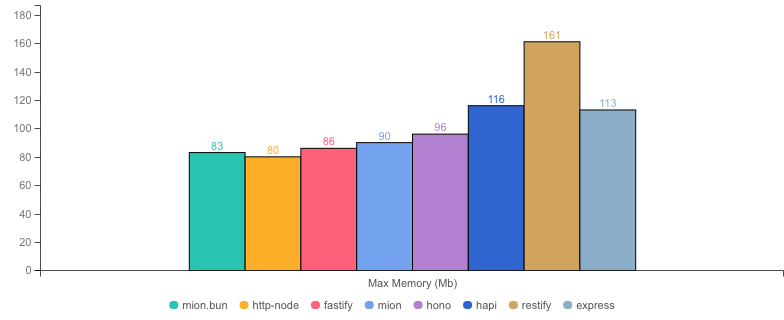
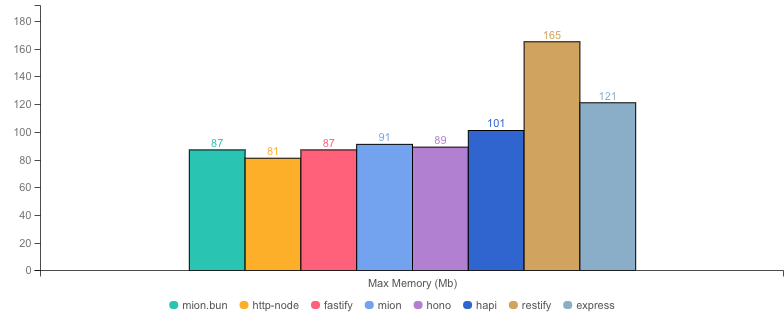
update to latest benchmarks

diff --git a/website/content/4.benchmarks/1.hello-world.md b/website/content/4.benchmarks/1.hello-world.md
@@ -43,8 +43,8 @@ mion creates standard Request, Response & Headers Object for each incoming reque
 
 * __Machine:__ darwin x64 | 8 vCPUs | 16.0GB Mem
 * __Node:__ `v20.11.0`
-* __Run:__ Mon Jan 29 2024 01:56:33 GMT+0000 (Greenwich Mean Time)
-* __Method:__ `autocannon -c 100 -d 40.06 -p 10 localhost:3000` (two rounds; one to warm-up, one to measure)
+* __Run:__ Mon Jan 29 2024 22:27:22 GMT+0000 (Greenwich Mean Time)
+* __Method:__ `autocannon -c 100 -d 40.02 -p 10 localhost:3000` (two rounds; one to warm-up, one to measure)
 
 #### Req (R/s) 
 
@@ -70,15 +70,15 @@ mion creates standard Request, Response & Headers Object for each incoming reque
 
 ## Results Table
 
-|           | Version   | Router | Req (R/s)   | Latency (ms) | Output (Mb/s) | Max Memory (Mb) | Max Cpu (%) | Validation | Description                                                                         |
-| :--       | --:       | --:    | :-:         | --:          | --:           | --:             | --:         | :-:        | :--                                                                                 |
-| mion.bun  | 0.6.2     | ✓      | 61463.2     | 15.79        | 9.55          | 83              | 106         | ✓          | mion using bun, automatic validation and serialization                              |
-| http-node | 16.18.0   | ✗      | 39839.2     | 24.60        | 7.10          | 80              | 125         | ✗          | bare node http server, should be the theoretical upper limit in node.js performance |
-| fastify   | 4.10.2    | ✓      | 39560.0     | 24.78        | 7.09          | 86              | 121         | -          | Validation using schemas and ajv. schemas are generated manually                    |
-| **mion**  | **0.6.2** | **✓**  | **33033.0** | **29.77**    | **6.62**      | **90**          | **128**     | **✓**      | **Automatic validation and serialization out of the box**                           |
-| hono      | 3.12.6    | ✓      | 28300.4     | 34.83        | 5.05          | 96              | 123         | ✗          | hono node server, manual validation or third party tools                            |
-| hapi      | 21.3.2    | ✓      | 26826.0     | 36.77        | 4.78          | 116             | 129         | ✗          | validation using joi or third party tools                                           |
-| restify   | 11.1.0    | ✓      | 10422.3     | 95.49        | 2.57          | 161             | 143         | ✗          | manual validation or third party tools                                              |
-| express   | 4.18.2    | ✓      | 8142.6      | 122.16       | 1.45          | 113             | 125         | ✗          | manual validation or third party tools                                              |
+|              | Version   | Router | Req (R/s)   | Latency (ms) | Output (Mb/s) | Max Memory (Mb) | Max Cpu (%) | Validation | Description                                                                         |
+| :--          | --:       | --:    | :-:         | --:          | --:           | --:             | --:         | :-:        | :--                                                                                 |
+| **mion.bun** | **0.6.2** | **✓**  | **63724.8** | **15.19**    | **9.91**      | **87**          | **107**     | **✓**      | **mion using bun, automatic validation and serialization**                          |
+| http-node    | 16.18.0   | ✗      | 39481.6     | 24.83        | 7.04          | 81              | 129         | ✗          | bare node http server, should be the theoretical upper limit in node.js performance |
+| fastify      | 4.10.2    | ✓      | 39065.6     | 25.10        | 7.00          | 87              | 123         | -          | Validation using schemas and ajv. schemas are generated manually                    |
+| **mion**     | **0.6.2** | **✓**  | **33488.6** | **29.35**    | **6.71**      | **91**          | **127**     | **✓**      | **Automatic validation and serialization out of the box**                           |
+| hono         | 3.12.6    | ✓      | 29306.0     | 33.61        | 5.23          | 89              | 123         | ✗          | hono node server, manual validation or third party tools                            |
+| hapi         | 21.3.2    | ✓      | 26155.6     | 37.72        | 4.66          | 101             | 128         | ✗          | validation using joi or third party tools                                           |
+| restify      | 11.1.0    | ✓      | 10475.8     | 94.94        | 2.59          | 165             | 144         | ✗          | manual validation or third party tools                                              |
+| express      | 4.18.2    | ✓      | 8172.9      | 121.70       | 1.46          | 121             | 126         | ✗          | manual validation or third party tools                                              |
 
 :button-link[Benchmarks Repo]{icon="grommet-icons:github" href="https://github.com/MionKit/Benchmarks" blank style="margin-top:2rem"}

diff --git a/website/content/4.benchmarks/2.update-user.md b/website/content/4.benchmarks/2.update-user.md
@@ -64,8 +64,8 @@ A manually written validation function has been used for any library that does n
 
 * __Machine:__ darwin x64 | 8 vCPUs | 16.0GB Mem
 * __Node:__ `v20.11.0`
-* __Run:__ Mon Jan 29 2024 01:48:11 GMT+0000 (Greenwich Mean Time)
-* __Method:__ `autocannon -c 100 -d 40.01 -p 10 localhost:3000` (two rounds; one to warm-up, one to measure)
+* __Run:__ Mon Jan 29 2024 22:19:00 GMT+0000 (Greenwich Mean Time)
+* __Method:__ `autocannon -c 100 -d 40.02 -p 10 localhost:3000` (two rounds; one to warm-up, one to measure)
 
 #### Req (R/s) 
 
@@ -93,15 +93,15 @@ A manually written validation function has been used for any library that does n
 ## Results Table
 
 
-|           | Version   | Router | Req (R/s)   | Latency (ms) | Output (Mb/s) | Max Memory (Mb) | Max Cpu (%) | Validation | Description                                                                         |
-| :--       | --:       | --:    | :-:         | --:          | --:           | --:             | --:         | :-:        | :--                                                                                 |
-| http-node | 16.18.0   | ✗      | 18296.3     | 54.13        | 4.40          | 80              | 123         | ✗          | bare node http server, should be the theoretical upper limit in node.js performance |
-| mion.bun  | 0.6.2     | ✓      | 17217.6     | 57.55        | 3.99          | 111             | 108         | ✓          | mion using bun, automatic validation and serialization                              |
-| fastify   | 4.10.2    | ✓      | 16735.5     | 59.22        | 4.04          | 87              | 120         | -          | Validation using schemas and ajv. schemas are generated manually                    |
-| **mion**  | **0.6.2** | **✓**  | **13797.0** | **71.92**    | **3.82**      | **142**         | **145**     | **✓**      | **Automatic validation and serialization out of the box**                           |
-| restify   | 11.1.0    | ✓      | 12960.0     | 76.61        | 3.32          | 129             | 121         | ✗          | manual validation or third party tools                                              |
-| hapi      | 21.3.2    | ✓      | 8815.5      | 112.79       | 2.12          | 96              | 131         | ✗          | validation using joi or third party tools                                           |
-| hono      | 3.12.6    | ✓      | 5609.3      | 177.43       | 1.35          | 127             | 136         | ✗          | hono node server, manual validation or third party tools                            |
-| express   | 4.18.2    | ✓      | 4563.9      | 214.79       | 1.10          | 127             | 126         | ✗          | manual validation or third party tools                                              |
+|              | Version   | Router | Req (R/s)   | Latency (ms) | Output (Mb/s) | Max Memory (Mb) | Max Cpu (%) | Validation | Description                                                                         |
+| :--          | --:       | --:    | :-:         | --:          | --:           | --:             | --:         | :-:        | :--                                                                                 |
+| http-node    | 16.18.0   | ✗      | 18598.0     | 53.24        | 4.47          | 79              | 126         | ✗          | bare node http server, should be the theoretical upper limit in node.js performance |
+| **mion.bun** | **0.6.2** | **✓**  | **17023.2** | **58.22**    | **3.94**      | **111**         | **106**     | **✓**      | **mion using bun, automatic validation and serialization**                          |
+| fastify      | 4.10.2    | ✓      | 16961.8     | 58.41        | 4.09          | 87              | 122         | -          | Validation using schemas and ajv. schemas are generated manually                    |
+| **mion**     | **0.6.2** | **✓**  | **13936.0** | **71.21**    | **3.85**      | **136**         | **139**     | **✓**      | **Automatic validation and serialization out of the box**                           |
+| restify      | 11.1.0    | ✓      | 12776.6     | 77.70        | 3.28          | 130             | 125         | ✗          | manual validation or third party tools                                              |
+| hapi         | 21.3.2    | ✓      | 8870.8      | 112.09       | 2.13          | 103             | 134         | ✗          | validation using joi or third party tools                                           |
+| hono         | 3.12.6    | ✓      | 5763.7      | 172.66       | 1.39          | 123             | 134         | ✗          | hono node server, manual validation or third party tools                            |
+| express      | 4.18.2    | ✓      | 4596.6      | 213.24       | 1.10          | 122             | 126         | ✗          | manual validation or third party tools                                              |
 
 :button-link[Benchmarks Repo]{icon="grommet-icons:github" href="https://github.com/MionKit/Benchmarks" blank style="margin-top:2rem"}

diff --git a/website/content/4.benchmarks/3.cold-starts.md b/website/content/4.benchmarks/3.cold-starts.md
@@ -21,7 +21,7 @@ We are comparing mion against fastify as we consider it to be the gold standard 
 
 - **Machine:** darwin x64 | 8 vCPUs | 16.0GB Mem
 - **Node:** `v20.11.0`
-- **Run:** Mon Jan 29 2024 01:57:53 GMT+0000 (Greenwich Mean Time)
+- **Run:** Mon Jan 29 2024 22:28:41 GMT+0000 (Greenwich Mean Time)
 - **Method:** `npm run metrics` (samples: 5)
 - **startup:** time elapsed to setup the application
 - **listen:** time elapsed until the http server is ready to accept requests (cold start)
@@ -38,21 +38,21 @@ Time in (ms) <sup>lower is better</sup>
 
 |                                | startup(ms) | listen(ms) |
 | ------------------------------ | ----------- | ---------- |
-| 10-startup-fastify-routes.js   | 135         | 201        |
-| 10-startup-mion-routes.js      | 83          | 88         |
-| 100-startup-fastify-routes.js  | 145         | 295        |
-| 100-startup-mion-routes.js     | 85          | 90         |
-| 500-startup-fastify-routes.js  | 214         | 695        |
-| 500-startup-mion-routes.js     | 85          | 94         |
-| 1000-startup-fastify-routes.js | 320         | 1202       |
-| 1000-startup-mion-routes.js    | 86          | 100        |
-| 2000-startup-fastify-routes.js | 539         | 2157       |
-| 2000-startup-mion-routes.js    | 86          | 110        |
-| 3000-startup-fastify-routes.js | 918         | 3414       |
-| 3000-startup-mion-routes.js    | 86          | 116        |
-| 5000-startup-fastify-routes.js | 1726        | 6004       |
-| 5000-startup-mion-routes.js    | 87          | 128        |
-| startup-listen.js              | 86          | 90         |
+| 10-startup-fastify-routes.js   | 132         | 198        |
+| 10-startup-mion-routes.js      | 82          | 87         |
+| 100-startup-fastify-routes.js  | 144         | 293        |
+| 100-startup-mion-routes.js     | 82          | 88         |
+| 500-startup-fastify-routes.js  | 217         | 688        |
+| 500-startup-mion-routes.js     | 83          | 91         |
+| 1000-startup-fastify-routes.js | 327         | 1198       |
+| 1000-startup-mion-routes.js    | 83          | 96         |
+| 2000-startup-fastify-routes.js | 520         | 2133       |
+| 2000-startup-mion-routes.js    | 84          | 106        |
+| 3000-startup-fastify-routes.js | 789         | 3235       |
+| 3000-startup-mion-routes.js    | 85          | 115        |
+| 5000-startup-fastify-routes.js | 1749        | 6105       |
+| 5000-startup-mion-routes.js    | 85          | 126        |
+| startup-listen.js              | 82          | 86         |
+
 
 :button-link[Benchmarks Repo]{icon="grommet-icons:github" href="https://github.com/MionKit/Benchmarks" blank style="margin-top:2rem"}
-
